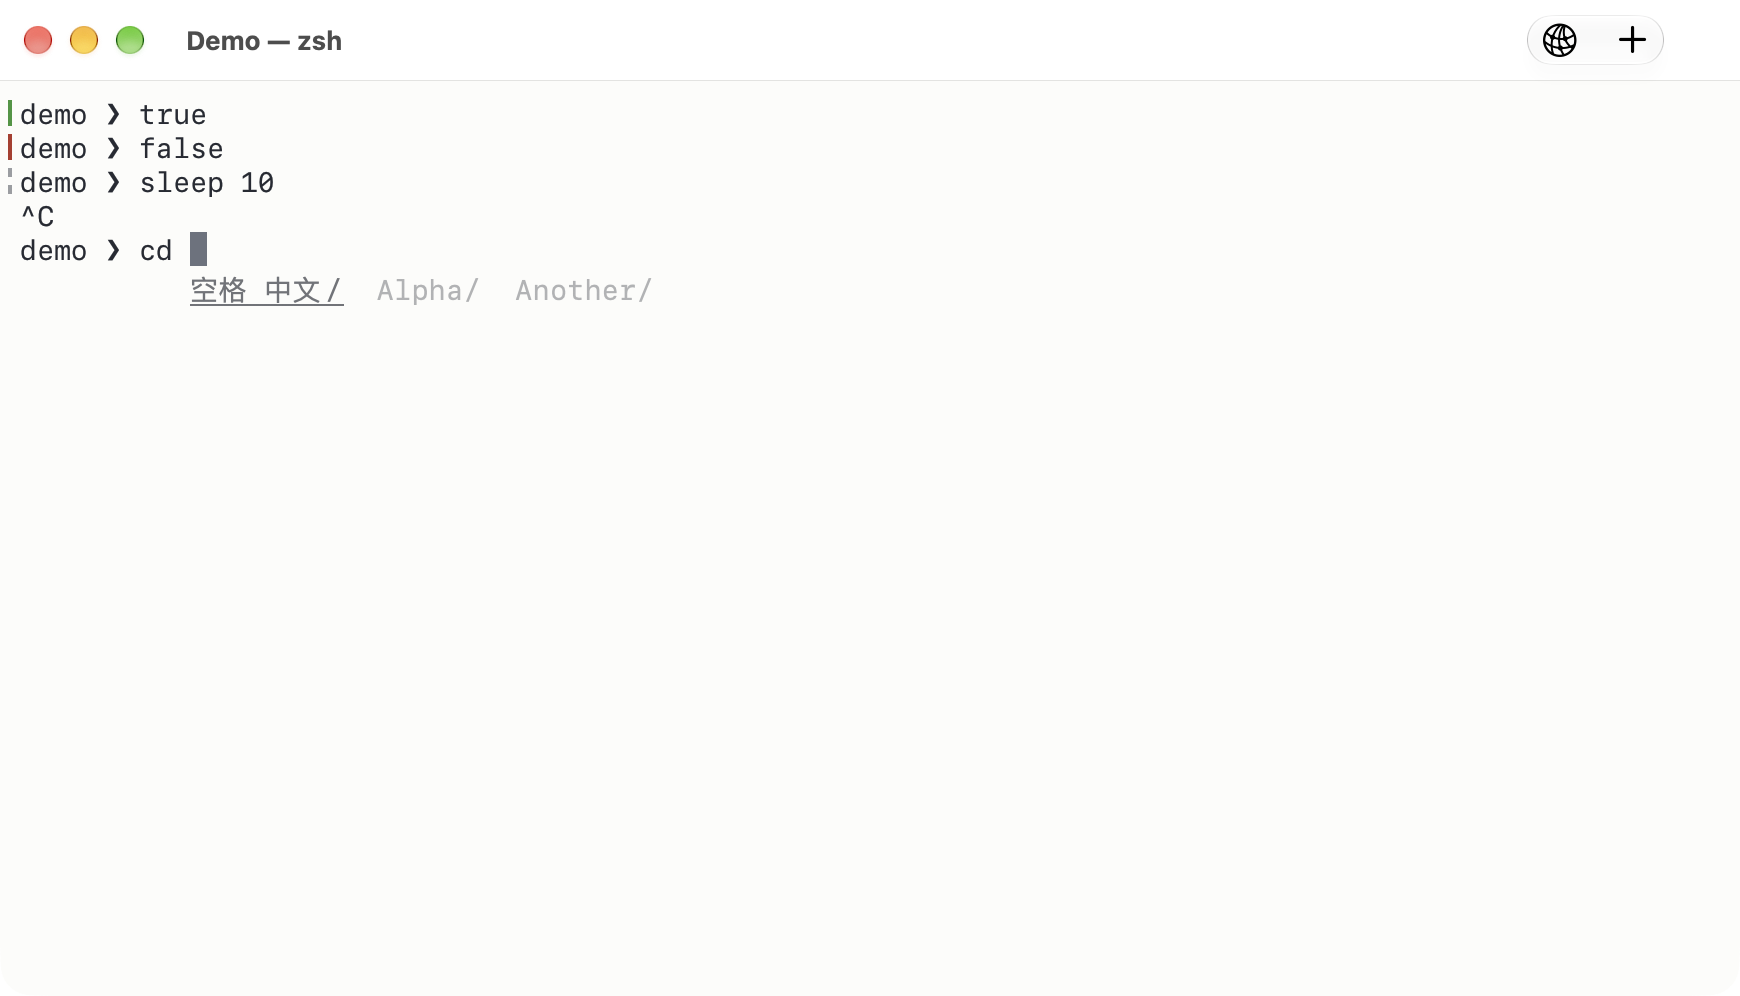
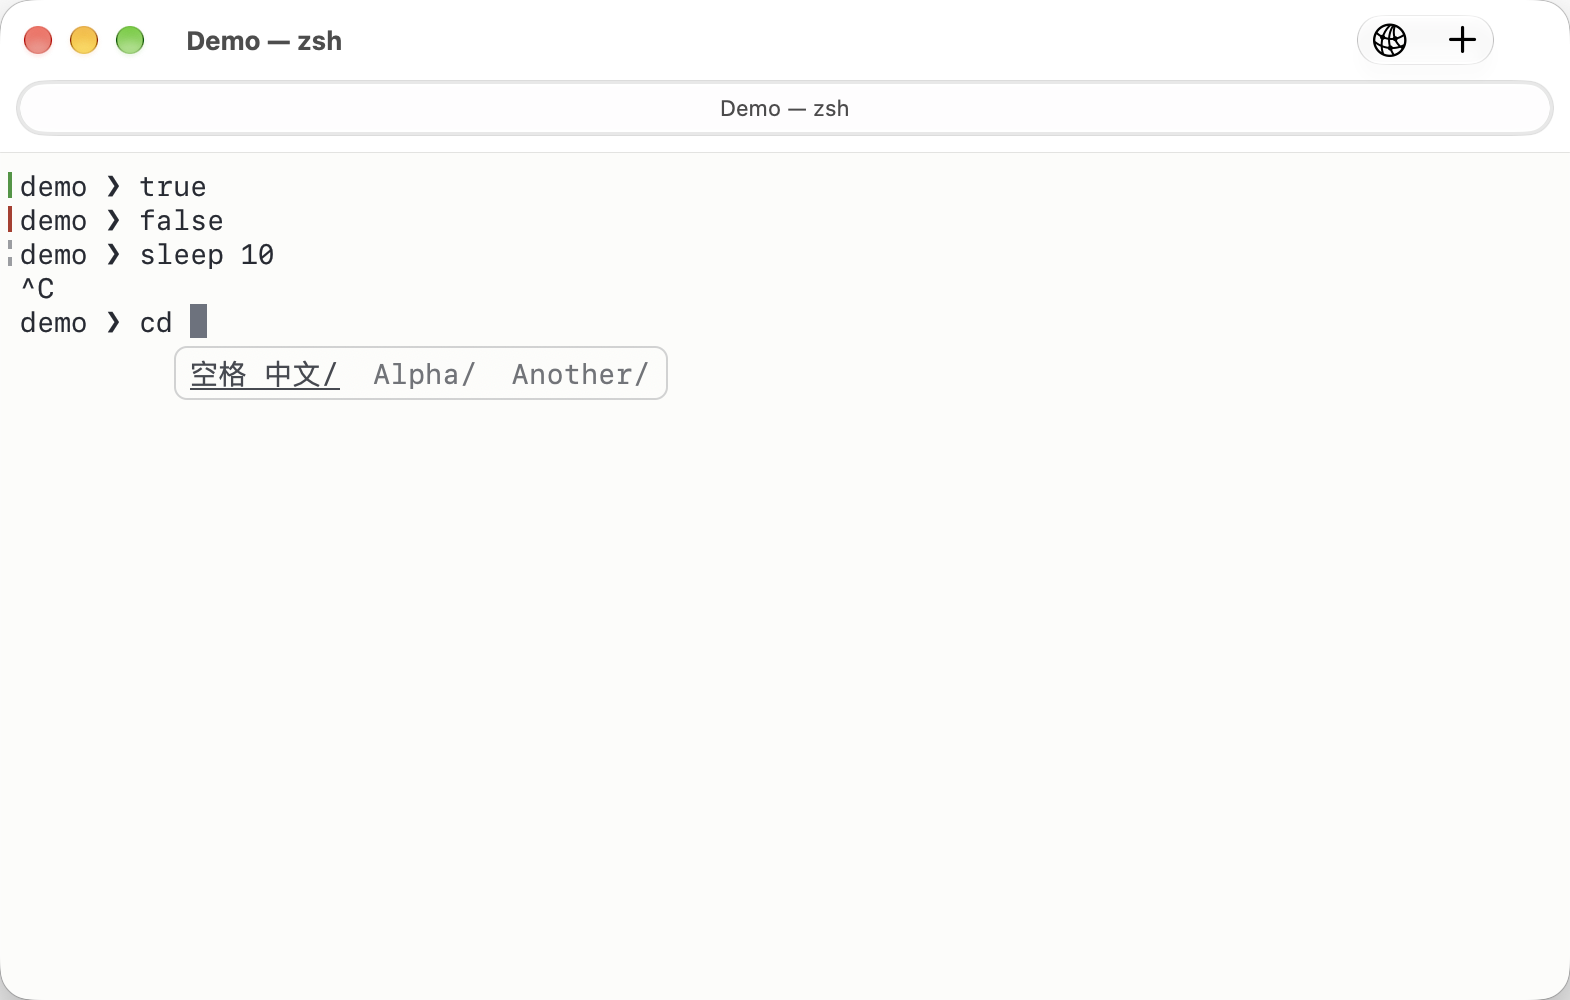
fix(ui): show directory candidates in a compact floating panel (#420)

diff --git a/Corta/Pane/ShellOverlayView.swift b/Corta/Pane/ShellOverlayView.swift
@@ -18,7 +18,7 @@ import AppKit
 import CoreText
 import CortaTerminal
 
-/// Native overlays live in the margin and beside the caret, never in terminal cells.
+/// Native overlays are drawn separately from terminal cells, beside the caret.
 /// The command-status rules themselves are drawn by `TerminalRenderer`, with
 /// the text they belong to (#238); this view keeps only their tooltips.
 final class ShellOverlayView: NSView {
@@ -57,7 +57,7 @@ final class ShellOverlayView: NSView {
     private var lastCompletionPresentation: CompletionPresentation?
     private var preview: ShellGhostView?
     private var candidateRow: DirectoryCandidateRowView?
-    /// Native completion previews occupy space outside the terminal grid.
+    /// Native hint frames, used to keep other overlays clear.
     var occupiedRects: [CGRect] { subviews.filter { !$0.isHidden }.map(\.frame) }
     override var isFlipped: Bool { true }
 
@@ -127,16 +127,22 @@ final class ShellOverlayView: NSView {
             return
         }
         let row = candidateRow ?? DirectoryCandidateRowView()
-        let prefixWidth = (state.typedPrefix as NSString).size(withAttributes: [.font: font]).width
-        let x = max(TerminalLayout.insets.left, anchor.minX - prefixWidth)
-        let below = anchor.maxY + 3
-        let fitsBelow = below + anchor.height <= bounds.height - TerminalLayout.insets.bottom
-        // At the bottom, the temporary hint sits above the prompt instead.
-        row.frame = CGRect(x: x, y: fitsBelow ? below : max(0, anchor.minY - anchor.height - 3),
-            width: max(0, bounds.width - TerminalLayout.insets.right - x), height: anchor.height)
-        row.baseline = baseline
-        row.backdrop = fitsBelow ? nil : colors.backdrop
+        let padding: CGFloat = 8
+        let margin = TerminalLayout.insets.left
+        let availableWidth = max(0, bounds.width - margin - TerminalLayout.insets.right)
+        row.frame.size = CGSize(width: availableWidth, height: anchor.height + 10)
+        row.baseline = baseline + 5
         row.update(state: state, font: font, colors: colors)
+        let width = min(availableWidth, row.fittingWidth)
+        let prefixWidth = (state.typedPrefix as NSString).size(withAttributes: [.font: font]).width
+        let x = min(max(margin, anchor.minX - prefixWidth - padding),
+            max(margin, bounds.width - TerminalLayout.insets.right - width))
+        let below = anchor.maxY + 4
+        let height = row.frame.height
+        let fitsBelow = below + height <= bounds.height - TerminalLayout.insets.bottom
+        row.frame = CGRect(x: x,
+            y: fitsBelow ? below : max(0, anchor.minY - height - 4),
+            width: width, height: height)
         row.toolTip = L10n.text("completion.hint")
         if candidateRow == nil { addSubview(row)
             candidateRow = row }
@@ -164,11 +170,15 @@ final class ShellOverlayView: NSView {
         var muted: CGColor
         var selected: CGColor
         var backdrop: CGColor
+        var border: CGColor
+        var candidate: CGColor
 
         init(_ presentation: CompletionPresentation) {
             muted = presentation.colors.text(alpha: 0.35, contrastAlpha: 0.7)
-            selected = presentation.colors.text(alpha: 0.65, contrastAlpha: 1)
+            selected = presentation.colors.text(alpha: 0.85, contrastAlpha: 1)
             backdrop = presentation.colors.backdrop
+            border = presentation.colors.text(alpha: 0.2, contrastAlpha: 0.6)
+            candidate = presentation.colors.text(alpha: 0.65, contrastAlpha: 1)
         }
     }
 }
@@ -204,15 +214,16 @@ private final class ShellGhostView: NSView {
     }
 }
 
-/// A quiet, single-line set of alternatives. Selection is conveyed by stronger
-/// text and an underline, with no panel chrome or focusable controls.
+/// A compact panel beside the input; its border distinguishes it from history.
 private final class DirectoryCandidateRowView: NSView {
     private var content = NSAttributedString(string: "")
     private var token = NSAttributedString(string: "…")
     private var visibleText = ""
     var baseline: CGFloat = 12
-    /// The canvas colour, when the row sits over output above the prompt.
-    var backdrop: CGColor?
+    private var backdrop = CGColor(gray: 1, alpha: 1)
+    private var border = CGColor(gray: 0, alpha: 0.2)
+    var fittingWidth: CGFloat { ceil(CTLineGetTypographicBounds(
+        CTLineCreateWithAttributedString(content), nil, nil, nil)) + 16 }
     override var isFlipped: Bool { true }
     override func hitTest(_ point: NSPoint) -> NSView? { nil }
     override func isAccessibilityElement() -> Bool { true }
@@ -226,7 +237,9 @@ private final class DirectoryCandidateRowView: NSView {
         func width(_ text: String) -> CGFloat {
             (text as NSString).size(withAttributes: [.font: font]).width
         }
-        let available = max(0, bounds.width - width("…    …"))
+        backdrop = colors.backdrop
+        border = colors.border
+        let available = max(0, bounds.width - 16 - width("…    …"))
         var start = state.selectedIndex
         var end = start + 1
         var used = width(state.candidates[start])
@@ -243,7 +256,7 @@ private final class DirectoryCandidateRowView: NSView {
             used += extra
             end += 1
         }
-        let muted: [NSAttributedString.Key: Any] = [.font: font, .foregroundColor: colors.muted]
+        let muted: [NSAttributedString.Key: Any] = [.font: font, .foregroundColor: colors.candidate]
         let result = NSMutableAttributedString(string: start > 0 ? "…  " : "", attributes: muted)
         for index in start..<end {
             if index > start { result.append(NSAttributedString(string: gap, attributes: muted)) }
@@ -263,16 +276,19 @@ private final class DirectoryCandidateRowView: NSView {
 
     override func draw(_ dirtyRect: NSRect) {
         guard let context = NSGraphicsContext.current?.cgContext else { return }
-        if let backdrop {
-            context.setFillColor(backdrop)
-            context.fill(bounds)
-        }
+        let panel = CGPath(roundedRect: bounds.insetBy(dx: 0.5, dy: 0.5),
+            cornerWidth: 6, cornerHeight: 6, transform: nil)
+        context.addPath(panel)
+        context.setFillColor(backdrop)
+        context.setStrokeColor(border)
+        context.setLineWidth(1)
+        context.drawPath(using: .fillStroke)
         let full = CTLineCreateWithAttributedString(content)
         let ellipsis = CTLineCreateWithAttributedString(token)
-        let line = CTLineCreateTruncatedLine(full, Double(bounds.width), .end, ellipsis) ?? full
+        let line = CTLineCreateTruncatedLine(full, Double(max(0, bounds.width - 16)), .end, ellipsis) ?? full
         context.saveGState()
-        context.clip(to: bounds)
-        context.translateBy(x: 0, y: baseline)
+        context.clip(to: bounds.insetBy(dx: 8, dy: 0))
+        context.translateBy(x: 8, y: baseline)
         context.scaleBy(x: 1, y: -1)
         context.textMatrix = .identity
         context.textPosition = .zero

diff --git a/CortaTests/ShellOverlayTests.swift b/CortaTests/ShellOverlayTests.swift
@@ -79,17 +79,23 @@ import Testing
         let anchor = CGRect(x: 80, y: 40, width: 8, height: 17)
         overlay.showCompletion(completion, anchor: anchor)
 
-        /// The most opaque pixel of the row, unpremultiplied: a glyph's core.
+        /// The strongest text pixel against the panel's opaque canvas background.
         func strongestInk() throws -> NSColor {
             let row = try #require(overlay.subviews.first {
                 $0.accessibilityIdentifier() == "directory-completion-candidates" })
             let bitmap = try #require(row.bitmapImageRepForCachingDisplay(in: row.bounds))
             row.cacheDisplay(in: row.bounds, to: bitmap)
             var best: NSColor?
-            for y in 0..<bitmap.pixelsHigh {
-                for x in 0..<bitmap.pixelsWide {
-                    guard let pixel = bitmap.colorAt(x: x, y: y)?.usingColorSpace(.sRGB) else { continue }
-                    if pixel.alphaComponent > (best?.alphaComponent ?? 0) { best = pixel }
+            var bestContrast: CGFloat = -1
+            let background = TerminalColorPalette.activeVariant.background
+            for y in 4..<(bitmap.pixelsHigh - 4) {
+                for x in 4..<(bitmap.pixelsWide - 4) {
+                    guard let pixel = bitmap.colorAt(x: x, y: y)?.usingColorSpace(.sRGB),
+                        pixel.alphaComponent > 0.95 else { continue }
+                    let contrast = abs(pixel.redComponent - CGFloat(background.x))
+                        + abs(pixel.greenComponent - CGFloat(background.y))
+                        + abs(pixel.blueComponent - CGFloat(background.z))
+                    if contrast > bestContrast { best = pixel; bestContrast = contrast }
                 }
             }
             return try #require(best)
@@ -98,7 +104,7 @@ import Testing
         let ink = try strongestInk()
         #expect(ink.alphaComponent > 0.4)
         // #f0e0c0, not the black the light system colour gives.
-        #expect(ink.redComponent > 0.85 && ink.greenComponent > 0.75 && ink.blueComponent > 0.6)
+        #expect(ink.redComponent > 0.7 && ink.greenComponent > 0.65 && ink.blueComponent > 0.5)
 
         // A theme switch while the row shows recolours it: the next frame's
         // refresh must mark it dirty, not leave the old colours on screen.
@@ -112,7 +118,7 @@ import Testing
         overlay.showCompletion(completion, anchor: anchor)
         #expect(row.needsDisplay)
         let recoloured = try strongestInk()
-        #expect(recoloured.redComponent > 0.85 && recoloured.greenComponent < 0.3)
+        #expect(recoloured.redComponent > 0.6 && recoloured.greenComponent < 0.3)
     }
 
     @Test func historyPreviewSurvivesSplitRedrawButStaysHiddenAfterInputAndComposition() throws {
@@ -167,6 +173,29 @@ import Testing
         let (configuration, unknown) = Configuration.parse("history-suggestions = false\ndirectory-completion = true")
         #expect(unknown.isEmpty && !configuration.historySuggestions && configuration.directoryCompletion)
         #expect(Configuration.parse(configuration.serialized()).configuration == configuration)
+    }
+
+    @Test func candidatePanelFollowsInputAndFlipsAboveAtTheBottom() throws {
+        let overlay = ShellOverlayView(frame: CGRect(x: 0, y: 0, width: 600, height: 200))
+        let completion = try #require(DirectoryCompletion(payload: "1;0;p=;Applications/;Desktop/"))
+        let anchor = CGRect(x: 200, y: 40, width: 8, height: 17)
+        overlay.showCompletion(completion, anchor: anchor)
+        let row = try #require(overlay.subviews.first {
+            $0.accessibilityIdentifier() == "directory-completion-candidates" })
+        #expect(row.frame.minY >= anchor.maxY)
+        #expect(row.frame.minX == anchor.minX - 8)
+        #expect(row.frame.width < overlay.bounds.width / 2)
+        let originalFrame = row.frame
+        overlay.showCompletion(completion, anchor: anchor.offsetBy(dx: 20, dy: 17))
+        #expect(row.frame.minX == originalFrame.minX + 20)
+        #expect(row.frame.minY == originalFrame.minY + 17)
+        let bottom = CGRect(x: 570, y: 175, width: 8, height: 17)
+        overlay.showCompletion(completion, anchor: bottom)
+        #expect(row.frame.maxY < bottom.minY)
+        #expect(row.frame.maxX <= overlay.bounds.width - TerminalLayout.insets.right)
+        #expect(row.frame.minX >= TerminalLayout.insets.left)
+        overlay.hideCompletion()
+        #expect(overlay.occupiedRects.isEmpty)
     }
 
     @Test func statusGutterHasTextOutsideTerminalCells() {

diff --git a/docs/USER-GUIDE.md b/docs/USER-GUIDE.md
@@ -450,12 +450,16 @@ and clears them.
 ## Directory suggestions (zsh)
 
 Corta includes directory suggestions, enabled by default in standard local
-zsh sessions. Type `cd ` to see folders in the current directory as faint
-text below your input. Keep typing to filter the folders; a faint suffix
+zsh sessions. Type `cd ` to see folders in the current directory in a
+compact panel beside your input. It appears below the input when there is
+room, or above it near the bottom of the pane. The panel has an opaque
+background and a rounded border to distinguish it from earlier output;
+it can temporarily cover a small part of that output and reserves no
+terminal rows. Keep typing to filter the folders; a faint suffix
 appears beside the cursor. For example, `cd De` can suggest `Developer/`.
 Suggestions are previews: they are not part of your command until accepted.
 
-![Directory suggestions below cd, with success, failure and interrupted command marks](brand/directory-suggestions.png)
+![Directory candidate panel beside cd, with success, failure and interrupted command marks](brand/directory-suggestions.png)
 
 While a suggestion is visible:
 

diff --git a/docs/brand/README.md b/docs/brand/README.md
@@ -16,7 +16,7 @@ repository root.
 | `input-source-indicator.png` | Independent Chinese input-source badge, separated from toolbar action buttons, from an isolated demo shell |
 | `input-source-long-command.png` | Right-edge badge moved below a long command, without changing the grid |
 | `history-suggestions.png` | Local zsh history suffix, from the isolated history-suggestions UI fixture |
-| `directory-suggestions.png` | Local zsh suggestions and command-status marks from an isolated UI-test demo shell |
+| `directory-suggestions.png` | Compact local zsh candidate panel and command-status marks from an isolated UI-test demo shell |
 | `about.png`                 | About with separated links (development build)                   |
 | `social-preview.png`        | GitHub social preview card, 1280 × 640                            |
 

diff --git a/CHANGELOG.md b/CHANGELOG.md
@@ -10,6 +10,13 @@ Versioning for compatibility changes.
 
 ## [Unreleased]
 
+### Fixed
+
+- Directory candidates now appear in a compact, bordered panel beside the
+  input, flipping above it near the bottom and staying within the pane's
+  horizontal bounds. The panel no longer paints a full-width strip over
+  previous output; inline previews and terminal row counts are unchanged.
+
 ### Added
 
 - Built-in history suggestions for standard local zsh: type a command prefix
